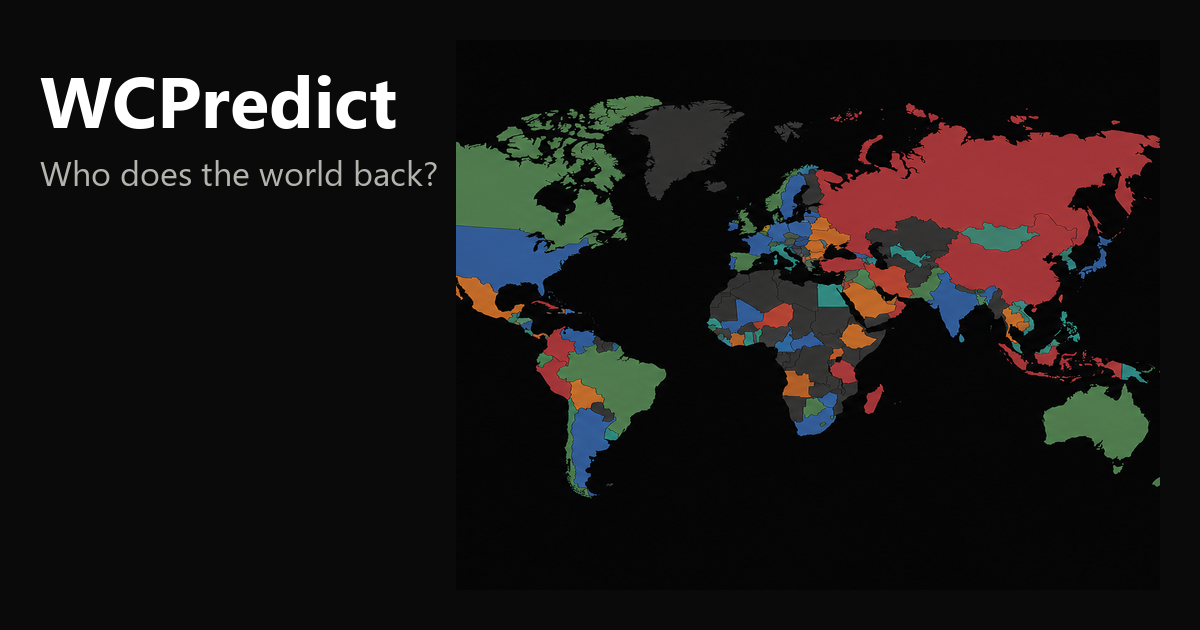
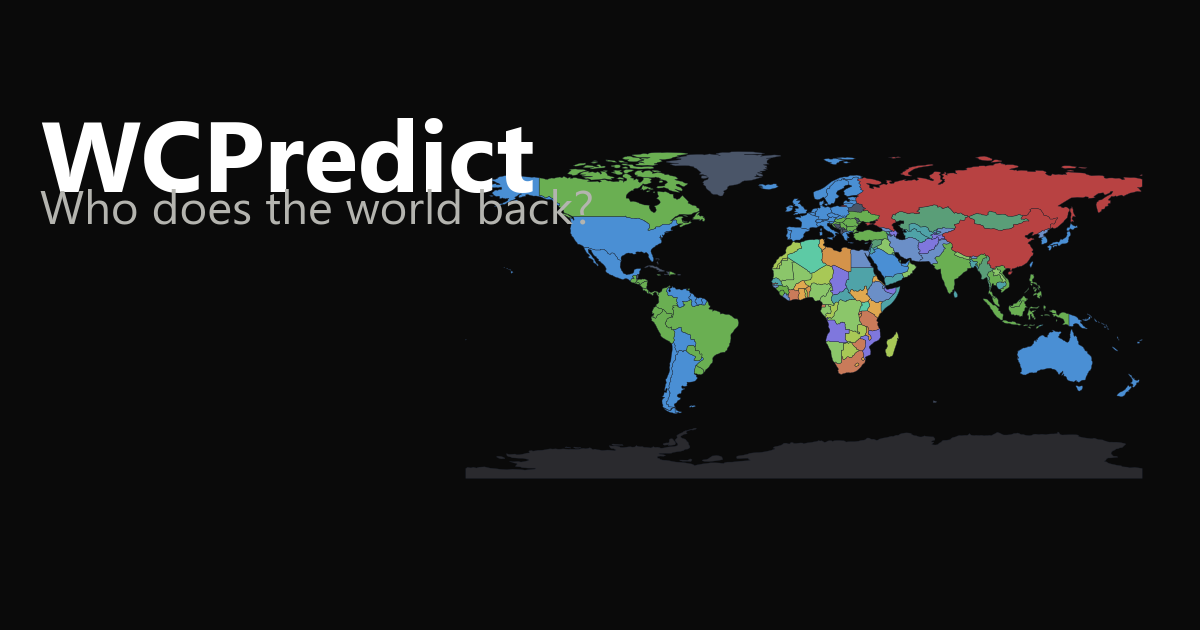
improve og-image map colours with clearer regional palette

Changed region(s): [[0.0308, 0.1206, 0.9867, 0.7841], [0.74, 0.1508, 0.7708, 0.181], [0.6475, 0.181, 0.6783, 0.2111]]

diff --git a/scripts/generate-og-image.py b/scripts/generate-og-image.py
@@ -1,0 +1,219 @@
+"""Generate og-image.png for social sharing previews."""
+
+from __future__ import annotations
+
+import hashlib
+from pathlib import Path
+
+import geopandas as gpd
+import matplotlib
+
+matplotlib.use("Agg")
+import matplotlib.pyplot as plt
+from matplotlib import font_manager
+from PIL import Image
+
+W, H = 1200, 630
+PAD = 40
+BG = "#0a0a0a"
+TEXT = "#ffffff"
+SUBTEXT = "#b4b4af"
+
+RED = {"Russia", "China"}
+
+CAPITALIST_BLUE = {
+    "United States of America",
+    "France",
+    "Germany",
+    "United Kingdom",
+    "Spain",
+    "Italy",
+    "Netherlands",
+    "Belgium",
+    "Portugal",
+    "Australia",
+    "Japan",
+    "South Korea",
+    "Mexico",
+    "Argentina",
+    "Chile",
+    "Sweden",
+    "Norway",
+    "Denmark",
+    "Finland",
+    "Ireland",
+    "Switzerland",
+    "Austria",
+    "Poland",
+    "Greece",
+    "Czechia",
+    "Czech Republic",
+    "New Zealand",
+    "Singapore",
+    "Israel",
+    "United Arab Emirates",
+    "Saudi Arabia",
+    "Taiwan",
+    "Iceland",
+    "Luxembourg",
+    "Slovakia",
+    "Slovenia",
+    "Estonia",
+    "Latvia",
+    "Lithuania",
+}
+
+CAPITALIST_GREEN = {
+    "Canada",
+    "Brazil",
+    "Colombia",
+    "Uruguay",
+    "Paraguay",
+    "Peru",
+    "Ecuador",
+    "India",
+    "Indonesia",
+    "Philippines",
+    "Thailand",
+    "Malaysia",
+    "Vietnam",
+    "Turkey",
+    "Romania",
+    "Hungary",
+    "Ukraine",
+    "Croatia",
+    "Serbia",
+    "Bulgaria",
+    "Panama",
+    "Costa Rica",
+    "Guatemala",
+    "Honduras",
+    "El Salvador",
+    "Nicaragua",
+    "Dominican Rep.",
+    "Jamaica",
+    "Trinidad and Tobago",
+}
+
+AFRICA_PALETTE = [
+    "#6BAF4A",
+    "#5DCAA5",
+    "#D4934A",
+    "#7F77DD",
+    "#6B8FC7",
+    "#8BC66A",
+    "#C97B5A",
+    "#4FA3A8",
+    "#A8C856",
+    "#E0A84F",
+]
+
+ASIA_PALETTE = [
+    "#5A9E78",
+    "#6B8FC7",
+    "#8BC66A",
+    "#4FA3A8",
+    "#7F77DD",
+]
+
+DEFAULT = "#4a5568"
+ANTARCTICA = "#2a2a2e"
+
+
+def country_color(name: str, continent: str) -> str:
+    if name in RED:
+        return "#B84242"
+    if name in CAPITALIST_BLUE:
+        return "#4A8FD4"
+    if name in CAPITALIST_GREEN:
+        return "#6AAF52"
+    if continent == "Africa":
+        idx = int(hashlib.md5(name.encode()).hexdigest(), 16) % len(AFRICA_PALETTE)
+        return AFRICA_PALETTE[idx]
+    if continent == "Asia":
+        idx = int(hashlib.md5(name.encode()).hexdigest(), 16) % len(ASIA_PALETTE)
+        return ASIA_PALETTE[idx]
+    if continent == "South America":
+        return "#6AAF52" if name in {"Brazil", "Colombia", "Uruguay"} else "#4A8FD4"
+    if continent == "Oceania":
+        return "#4A8FD4"
+    if name == "Antarctica":
+        return ANTARCTICA
+    return DEFAULT
+
+
+def load_font(bold: bool, size: int):
+    candidates = (
+        [r"C:\Windows\Fonts\segoeuib.ttf", r"C:\Windows\Fonts\arialbd.ttf"]
+        if bold
+        else [r"C:\Windows\Fonts\segoeui.ttf", r"C:\Windows\Fonts\arial.ttf"]
+    )
+    for path in candidates:
+        try:
+            return font_manager.FontProperties(fname=path, size=size)
+        except OSError:
+            continue
+    return font_manager.FontProperties(size=size, weight="bold" if bold else "normal")
+
+
+def main() -> None:
+    repo = Path(__file__).resolve().parents[1]
+    out_path = repo / "og-image.png"
+
+    url = (
+        "https://raw.githubusercontent.com/nvkelso/natural-earth-vector/"
+        "master/geojson/ne_110m_admin_0_countries.geojson"
+    )
+    world = gpd.read_file(url)
+    world["fill"] = world.apply(
+        lambda row: country_color(row["NAME"], row["CONTINENT"]), axis=1
+    )
+
+    dpi = 100
+    fig_w, fig_h = W / dpi, H / dpi
+    fig = plt.figure(figsize=(fig_w, fig_h), facecolor=BG, dpi=dpi)
+
+    ax = fig.add_axes([0.36, 0.06, 0.62, 0.88])
+    ax.set_facecolor(BG)
+    world.plot(
+        ax=ax,
+        color=world["fill"],
+        edgecolor="#1f2430",
+        linewidth=0.25,
+        antialiased=True,
+    )
+    ax.axis("off")
+
+    title_font = load_font(True, 72)
+    sub_font = load_font(False, 34)
+    fig.text(
+        PAD / W,
+        1 - (PAD + 78) / H,
+        "WCPredict",
+        color=TEXT,
+        fontproperties=title_font,
+        ha="left",
+        va="top",
+    )
+    fig.text(
+        PAD / W,
+        1 - (PAD + 148) / H,
+        "Who does the world back?",
+        color=SUBTEXT,
+        fontproperties=sub_font,
+        ha="left",
+        va="top",
+    )
+
+    fig.savefig(out_path, dpi=dpi, facecolor=BG)
+    plt.close(fig)
+
+    img = Image.open(out_path).convert("RGB")
+    img = img.resize((W, H), Image.LANCZOS)
+    img.save(out_path, "PNG", optimize=True)
+
+    print(f"Wrote {out_path} ({img.size[0]}x{img.size[1]})")
+
+
+if __name__ == "__main__":
+    main()
